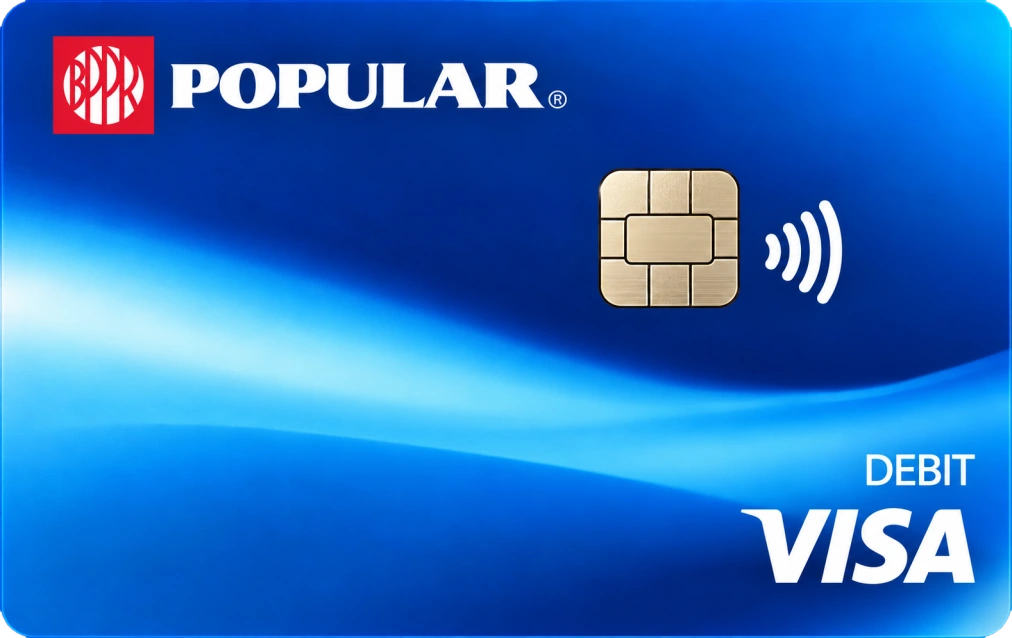
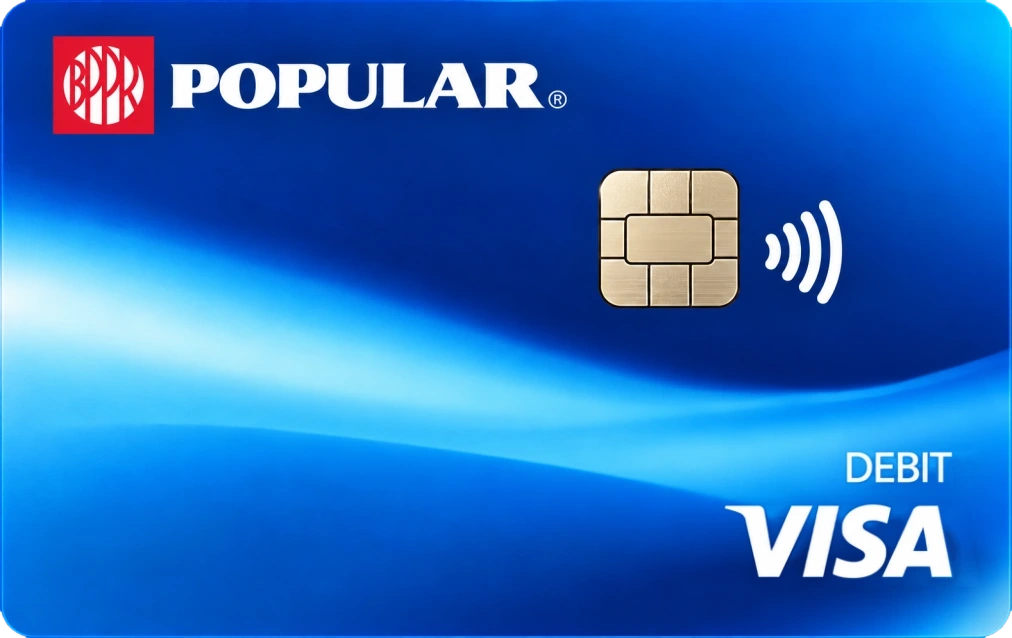
Align the VISA mark on supplied cards
The supplied Chase Freedom Unlimited, PenFed, PNC and Popular images placed
their DEBIT/VISA mark 27-39 px from the right edge and 39-54 px from the
bottom, some nearly touching it. tools/align_mark.py lifts each card's own
mark (keeping its look), fills the background behind it and sets it at
the same place on every card: 60 px from the right and bottom, 22.5% of
the card wide.

Changed region(s): [[0.7045, 0.685, 0.9802, 0.9232]]

diff --git a/tools/align_mark.py b/tools/align_mark.py
@@ -1,0 +1,106 @@
+"""Put the network mark (VISA, with its DEBIT label when there is one) of a supplied card at the same place on
+every card: lower right, MARGIN from the right and bottom edges, VISA_WIDTH of the card wide.
+
+The mark is lifted from the card itself, so it keeps that card's own look (flat white, metallic...), the background
+behind it is filled from its surroundings, and the mark is set back down at the standard place. Only the mark moves;
+nothing else on the card changes.
+
+usage: py -3.12 -I tools/align_mark.py <id> [<id>...]   (run from the repo root; edits cards/<id>.webp in place)
+       add --preview <png> to also save a before/after sheet
+"""
+import sys
+import cv2
+import numpy as np
+from PIL import Image
+
+MARGIN = 60          # px of the 1012x638 card: about 6% of its width, equal from the right and the bottom
+VISA_WIDTH = 0.225   # of the card's width, near what the supplied cards already use (22-23%)
+
+
+def mark_mask(rgb: np.ndarray) -> np.ndarray:
+    """The mark's pixels: brighter than the smooth background around them, in the card's lower right."""
+    h, w = rgb.shape[:2]
+    bg = cv2.medianBlur(rgb, 51).astype(np.int16)
+    diff = np.abs(rgb.astype(np.int16) - bg).max(axis=2)
+    fg = ((diff > 45) & (rgb.astype(np.int16).mean(axis=2) > bg.mean(axis=2))).astype(np.uint8)
+    region = np.zeros_like(fg)
+    region[int(.62 * h):h - 8, int(.55 * w):w - 6] = 1
+    fg = cv2.morphologyEx(fg & region, cv2.MORPH_CLOSE, np.ones((5, 5), np.uint8))
+    n, lab, st, _ = cv2.connectedComponentsWithStats(fg)
+    parts = [i for i in range(1, n) if st[i][4] > 40]
+    if not parts:
+        raise SystemExit('no mark found in the lower right')
+    right = max(st[i][0] + st[i][2] for i in parts)
+    bottom = max(st[i][1] + st[i][3] for i in parts)
+    # the mark is the group of shapes at the lower right corner; a light streak elsewhere isn't part of it
+    keep = np.zeros_like(fg)
+    for i in parts:
+        x, y, ww, hh, _ = st[i]
+        if x >= right - .30 * w and y >= bottom - .25 * h:
+            keep[lab == i] = 1
+    # thick letters: their centers match a blurred background made of them, so add every bright, colorless pixel
+    # around the shapes found (white or silver ink; the card's colored glows and streaks are left out)
+    ys, xs = np.where(keep)
+    x0, y0, x1, y1 = xs.min() - 4, ys.min() - 4, xs.max() + 5, ys.max() + 5
+    box = rgb[y0:y1, x0:x1].astype(np.int16)
+    lum, sat = box.mean(axis=2), box.max(axis=2) - box.min(axis=2)
+    far = cv2.medianBlur(rgb, 101)[y0:y1, x0:x1].astype(np.int16).mean(axis=2)
+    keep[y0:y1, x0:x1] |= ((lum > far + 30) & (sat < 70) & (lum > 120)).astype(np.uint8)
+    return cv2.morphologyEx(keep, cv2.MORPH_CLOSE, np.ones((3, 3), np.uint8))
+
+
+def align(cid: str) -> tuple[np.ndarray, np.ndarray]:
+    path = f'cards/{cid}.webp'
+    im = np.array(Image.open(path).convert('RGBA'))
+    rgb, alpha = im[..., :3].copy(), im[..., 3]
+    h, w = rgb.shape[:2]
+    keep = mark_mask(rgb)
+    ys, xs = np.where(keep)
+    x0, y0, x1, y1 = xs.min(), ys.min(), xs.max() + 1, ys.max() + 1
+    # VISA is the widest line of the mark (DEBIT sits above it, shorter): its width sets the scale
+    rows = np.where(keep[y0:y1].any(axis=1))[0] + y0
+    gaps = np.where(np.diff(rows) > 4)[0]
+    visa_top = rows[gaps[-1] + 1] if len(gaps) else y0
+    vx = np.where(keep[visa_top:y1].any(axis=0))[0]
+    scale = VISA_WIDTH * w / (vx.max() + 1 - vx.min())
+
+    # the mark with its soft edge, cut from the original
+    pad = 6
+    bx0, by0, bx1, by1 = max(x0 - pad, 0), max(y0 - pad, 0), min(x1 + pad, w), min(y1 + pad, h)
+    soft = cv2.GaussianBlur(cv2.dilate(keep, np.ones((3, 3), np.uint8)).astype(np.float32), (5, 5), 0)
+    patch = rgb[by0:by1, bx0:bx1].astype(np.float32)
+    pa = soft[by0:by1, bx0:bx1]
+    size = (round((bx1 - bx0) * scale), round((by1 - by0) * scale))
+    patch = cv2.resize(patch, size, interpolation=cv2.INTER_AREA if scale < 1 else cv2.INTER_CUBIC)
+    pa = np.clip(cv2.resize(pa, size, interpolation=cv2.INTER_LINEAR), 0, 1)[..., None]
+
+    # the background behind the old mark, filled in from around it
+    hole = cv2.dilate(keep, np.ones((9, 9), np.uint8))
+    out = cv2.inpaint(rgb, hole, 9, cv2.INPAINT_TELEA).astype(np.float32)
+
+    # set down so the mark's own right and bottom edges sit MARGIN from the card's
+    nx1 = w - MARGIN + round((bx1 - x1) * scale)
+    ny1 = h - MARGIN + round((by1 - y1) * scale)
+    nx0, ny0 = nx1 - size[0], ny1 - size[1]
+    region = out[ny0:ny1, nx0:nx1]
+    out[ny0:ny1, nx0:nx1] = region * (1 - pa) + patch * pa
+    out = np.clip(out, 0, 255).astype(np.uint8)
+    Image.fromarray(np.dstack([out, alpha])).save(path, quality=94, method=6)
+    print(cid, f'mark {x1 - x0}x{y1 - y0} at right {w - x1}px, bottom {h - y1}px -> {MARGIN}px, {MARGIN}px, scale {scale:.3f}')
+    return im[..., :3], out
+
+
+def main():
+    args = sys.argv[1:]
+    preview = None
+    if '--preview' in args:
+        i = args.index('--preview')
+        preview = args[i + 1]
+        del args[i:i + 2]
+    pairs = [align(cid) for cid in args]
+    if preview:
+        rows = [np.hstack([cv2.resize(a, (506, 319)), np.full((319, 10, 3), 128, np.uint8), cv2.resize(b, (506, 319))]) for a, b in pairs]
+        Image.fromarray(np.vstack(rows)).save(preview)
+
+
+main()

diff --git a/README.md b/README.md
@@ -30,6 +30,7 @@ Cards drawn here (`source: original`) are a fallback for debit cards with no ima
 py -3.12 -I tools/fetch_sources.py raw                 # issuer originals (and patches)
 py -3.12 -I tools/build.py raw EDSR_x4.pb [id ...]     # crop, enlarge, size to 1012x638, write cards/<id>.webp
 py -3.12 -I tools/from_image.py supplied/<id>.png <id> # a supplied image: crop, see-through corners, 1012x638
+py -3.12 -I tools/align_mark.py <id> [<id> ...]       # then: its VISA/DEBIT mark at the standard place (60 px in, 22.5% wide)
 py -3.12 -I tools/make_bank_cards.py                   # drawn art for debit cards with no image (skips supplied)
 ```
 
